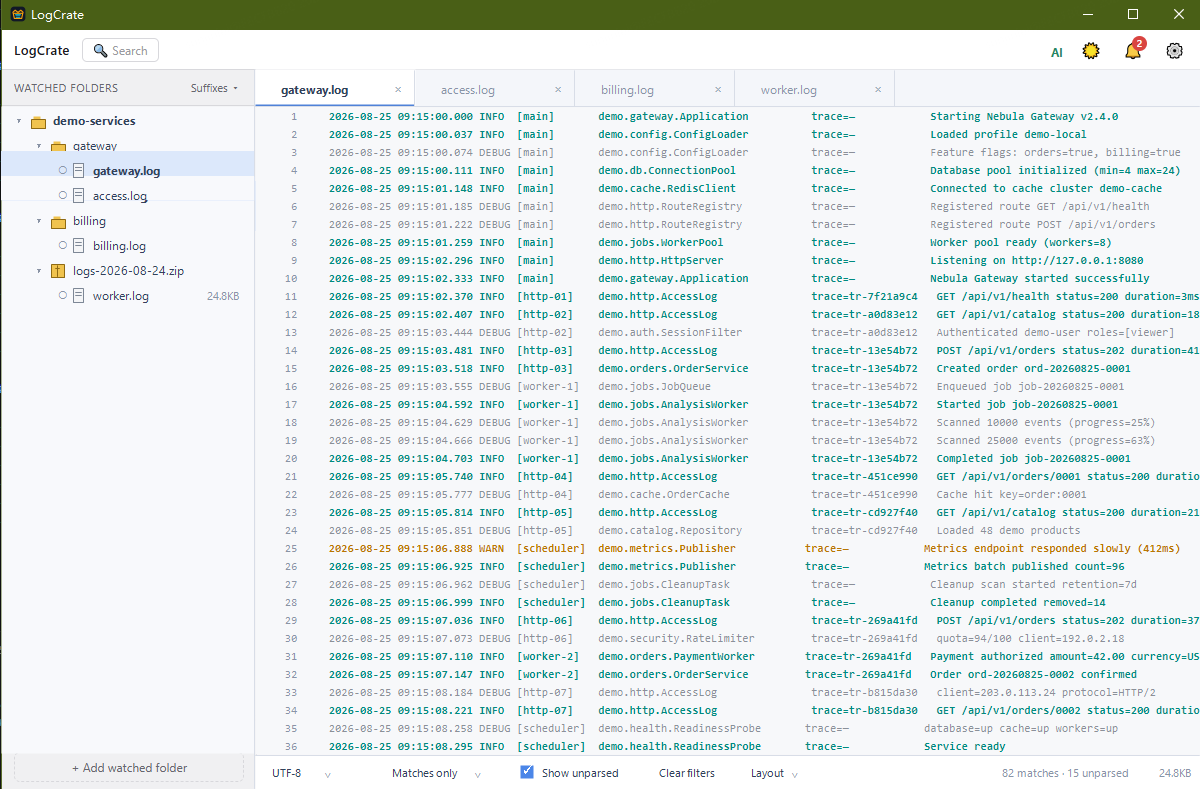
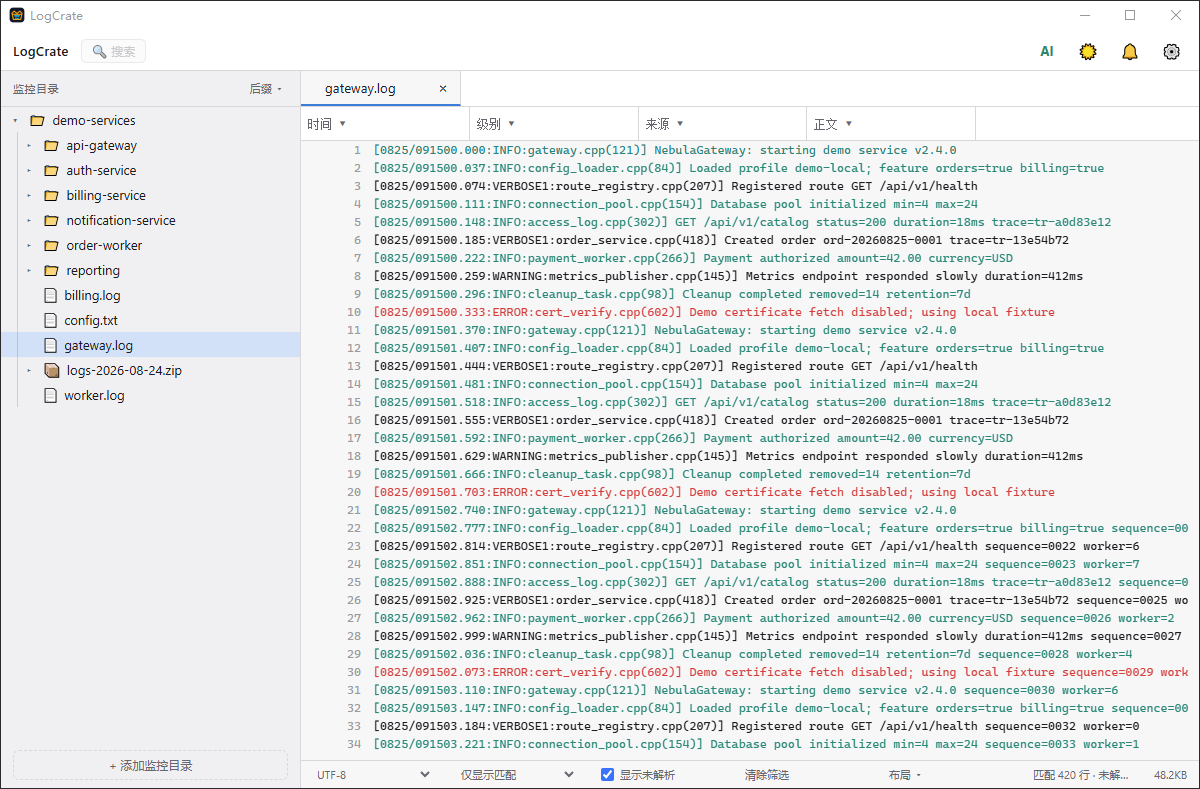
docs: 使用真实程序截图修正 README

diff --git a/规则手册/Step-3/工作状态.md b/规则手册/Step-3/工作状态.md
@@ -1272,3 +1272,21 @@
 - 双语 README 的替代文本已同步当前截图，并明确标注所有路径、文件名和日志条目均为虚构演示数据。
[1 lines of base64/hex data omitted]
 - 当前状态：已完成（以本次本地提交成功为生效条件）。下一步只允许精确暂存双语 README、两张主页面截图与本交接，复核 staged diff 后创建独立本地提交；不自动 push、tag、发布或归档。
+
+## README 真实程序截图修正交接（2026-08-25）
+
+- 用户明确否决图像合成方案，要求参考其主界面截图，在本地创建真实目录和日志文件，由 LogCrate 实际扫描、打开并渲染后截图；本任务只修正文档图片证据，不改变产品行为或规范语义，无需 OpenSpec，按 L1 文档资源执行。
+- 基准提交为 `78641ad`，开始时工作区干净，上一截图现场已由该提交闭环；本轮不 amend 或删除历史提交，而是创建独立修正提交。
+- 运行隔离边界：使用一次性 Tauri 应用标识和对应独立 Roaming/Local 配置目录，禁用隔离实例的全盘文件搜索；演示目录、普通日志、文本配置和 ZIP 归档全部在一次性临时目录生成。不得读取、替换或写回正式 `com.logcrate.app` 的监控配置、标签页、WebView 数据或 AI 历史。
+- F-323：真实程序完成首次构建并启动后，首个窗口截图探针从会话存储读取到未定义的进程 ID，PowerShell 在窗口 API 调用和图片写入前即参数转换失败；应用、演示文件和仓库图片未受影响。后续探针改为每次直接核对当前唯一的 `logcrate.exe` 进程及有效主窗口句柄。
+- F-324：首次真实渲染已证明目录扫描、日志打开、四字段识别、级别着色和 420 行计数生效，但演示生成器在已含右括号的来源字段后又追加 `)`，正文显示为 `gateway.cpp(121))]`；该截图不采纳。修正真实源日志后重启隔离实例复验，同时改用 DWM 可见框架边界避免窗口透明阴影采入桌面背景。
+- F-325：为修正 F-324 主动向 `tauri dev` 会话发送 Ctrl+C；目标应用按 `STATUS_CONTROL_C_EXIT` 结束，WebView2 同时输出一次 `Failed to unregister class ... Error = 1411`，因此开发会话退出码为 1。该结果是受控重启现场而非产品验证通过；精确进程已退出，后续使用同一隔离配置和已缓存构建重新启动。
+- F-326：修正日志后首次按 DWM 边界执行 `CopyFromScreen` 时，等待期间前台窗口从目标句柄 `1181878` 切换为其它应用句柄 `66860`，临时图因此包含无关界面，不能作为证据或资源。该临时 PNG 立即从已核对的一次性演示目录删除；后续只使用按目标窗口句柄执行的 `PrintWindow(PW_RENDERFULLCONTENT)`，并在采纳前逐图视觉复核，不再依赖前台屏幕像素。
+- F-327：首次 `PrintWindow` 探针执行成功，但目标窗口已最小化到 Windows 占位坐标 `-32000,-32000`，DWM 可见边界仅 146×28；生成的 752 字节占位 PNG 无效并立即删除。后续在同一调用内先恢复窗口、设定 1214×796 外框并等待 WebView 重绘，再按句柄打印和裁切到 1200×789 可见框架。
+- F-328：恢复窗口并打印的下一条探针在进入 PowerShell 前被外层 JavaScript 模板字符串错误解释 `${outerWidth}`，抛出 `ReferenceError`；命令未启动，没有修改窗口、图片、进程或仓库。后续改为 PowerShell 子表达式 `$($outerWidth)`，避免外层插值。
+- F-329：修正 F-328 后首次抓取在 `Add-Type` 阶段因本机遗留的 Visual Studio 98 无效 `LIB` 路径被视为编译警告错误，窗口 API 和图片写入均未执行。只在后续探针子进程内清除该无效环境变量后，目标句柄 `1181878` 成功恢复到 1214×796 外框，DWM 可见框架为 1200×789，并以 `PrintWindow(PW_RENDERFULLCONTENT)` 取得有效截图。
+- F-330：首次清理把三个目标的路径校验与递归删除组合在同一 PowerShell 脚本中，随后逐目标原生 `Remove-Item -Recurse` 也被执行策略在进程创建前拒绝；两次均未删除任何内容。重新只读核对三个绝对路径、叶子名与允许父目录后，改用相同 PowerShell 环境的受控目录 API 按明确字面量逐个删除，最终三个目标均不存在。
+- 真实运行结果：隔离实例扫描一次性 `demo-services`，实际打开 420 行 `gateway.log`，正确显示时间/级别/来源/正文四字段、INFO/WARNING/ERROR 着色、活动标签、真实 ZIP 和行数统计；通过真实点击主题按钮切换暗色主题。两张图片均从同一 LogCrate 窗口句柄直接打印，没有合成 UI 或采入其它应用像素，原始分辨率视觉复核通过。
+- 资源与清理：`resources/screenshots/logcrate-hero-light.png`、`resources/screenshots/logcrate-hero-dark.png` 已替换为真实运行截图；隔离 `logcrate.exe`、开发会话和 1420 监听均已停止，演示现场及独立 Roaming/Local 配置目录已删除，正式 `com.logcrate.app` 配置、标签页、WebView 数据和 AI 历史未触碰。
[1 lines of base64/hex data omitted]
+- 当前状态：已完成（以本次本地提交成功为生效条件）。下一步只允许精确暂存两张真实截图与本交接，复核 staged diff 后创建独立本地提交；不自动 push、tag、发布或归档。
